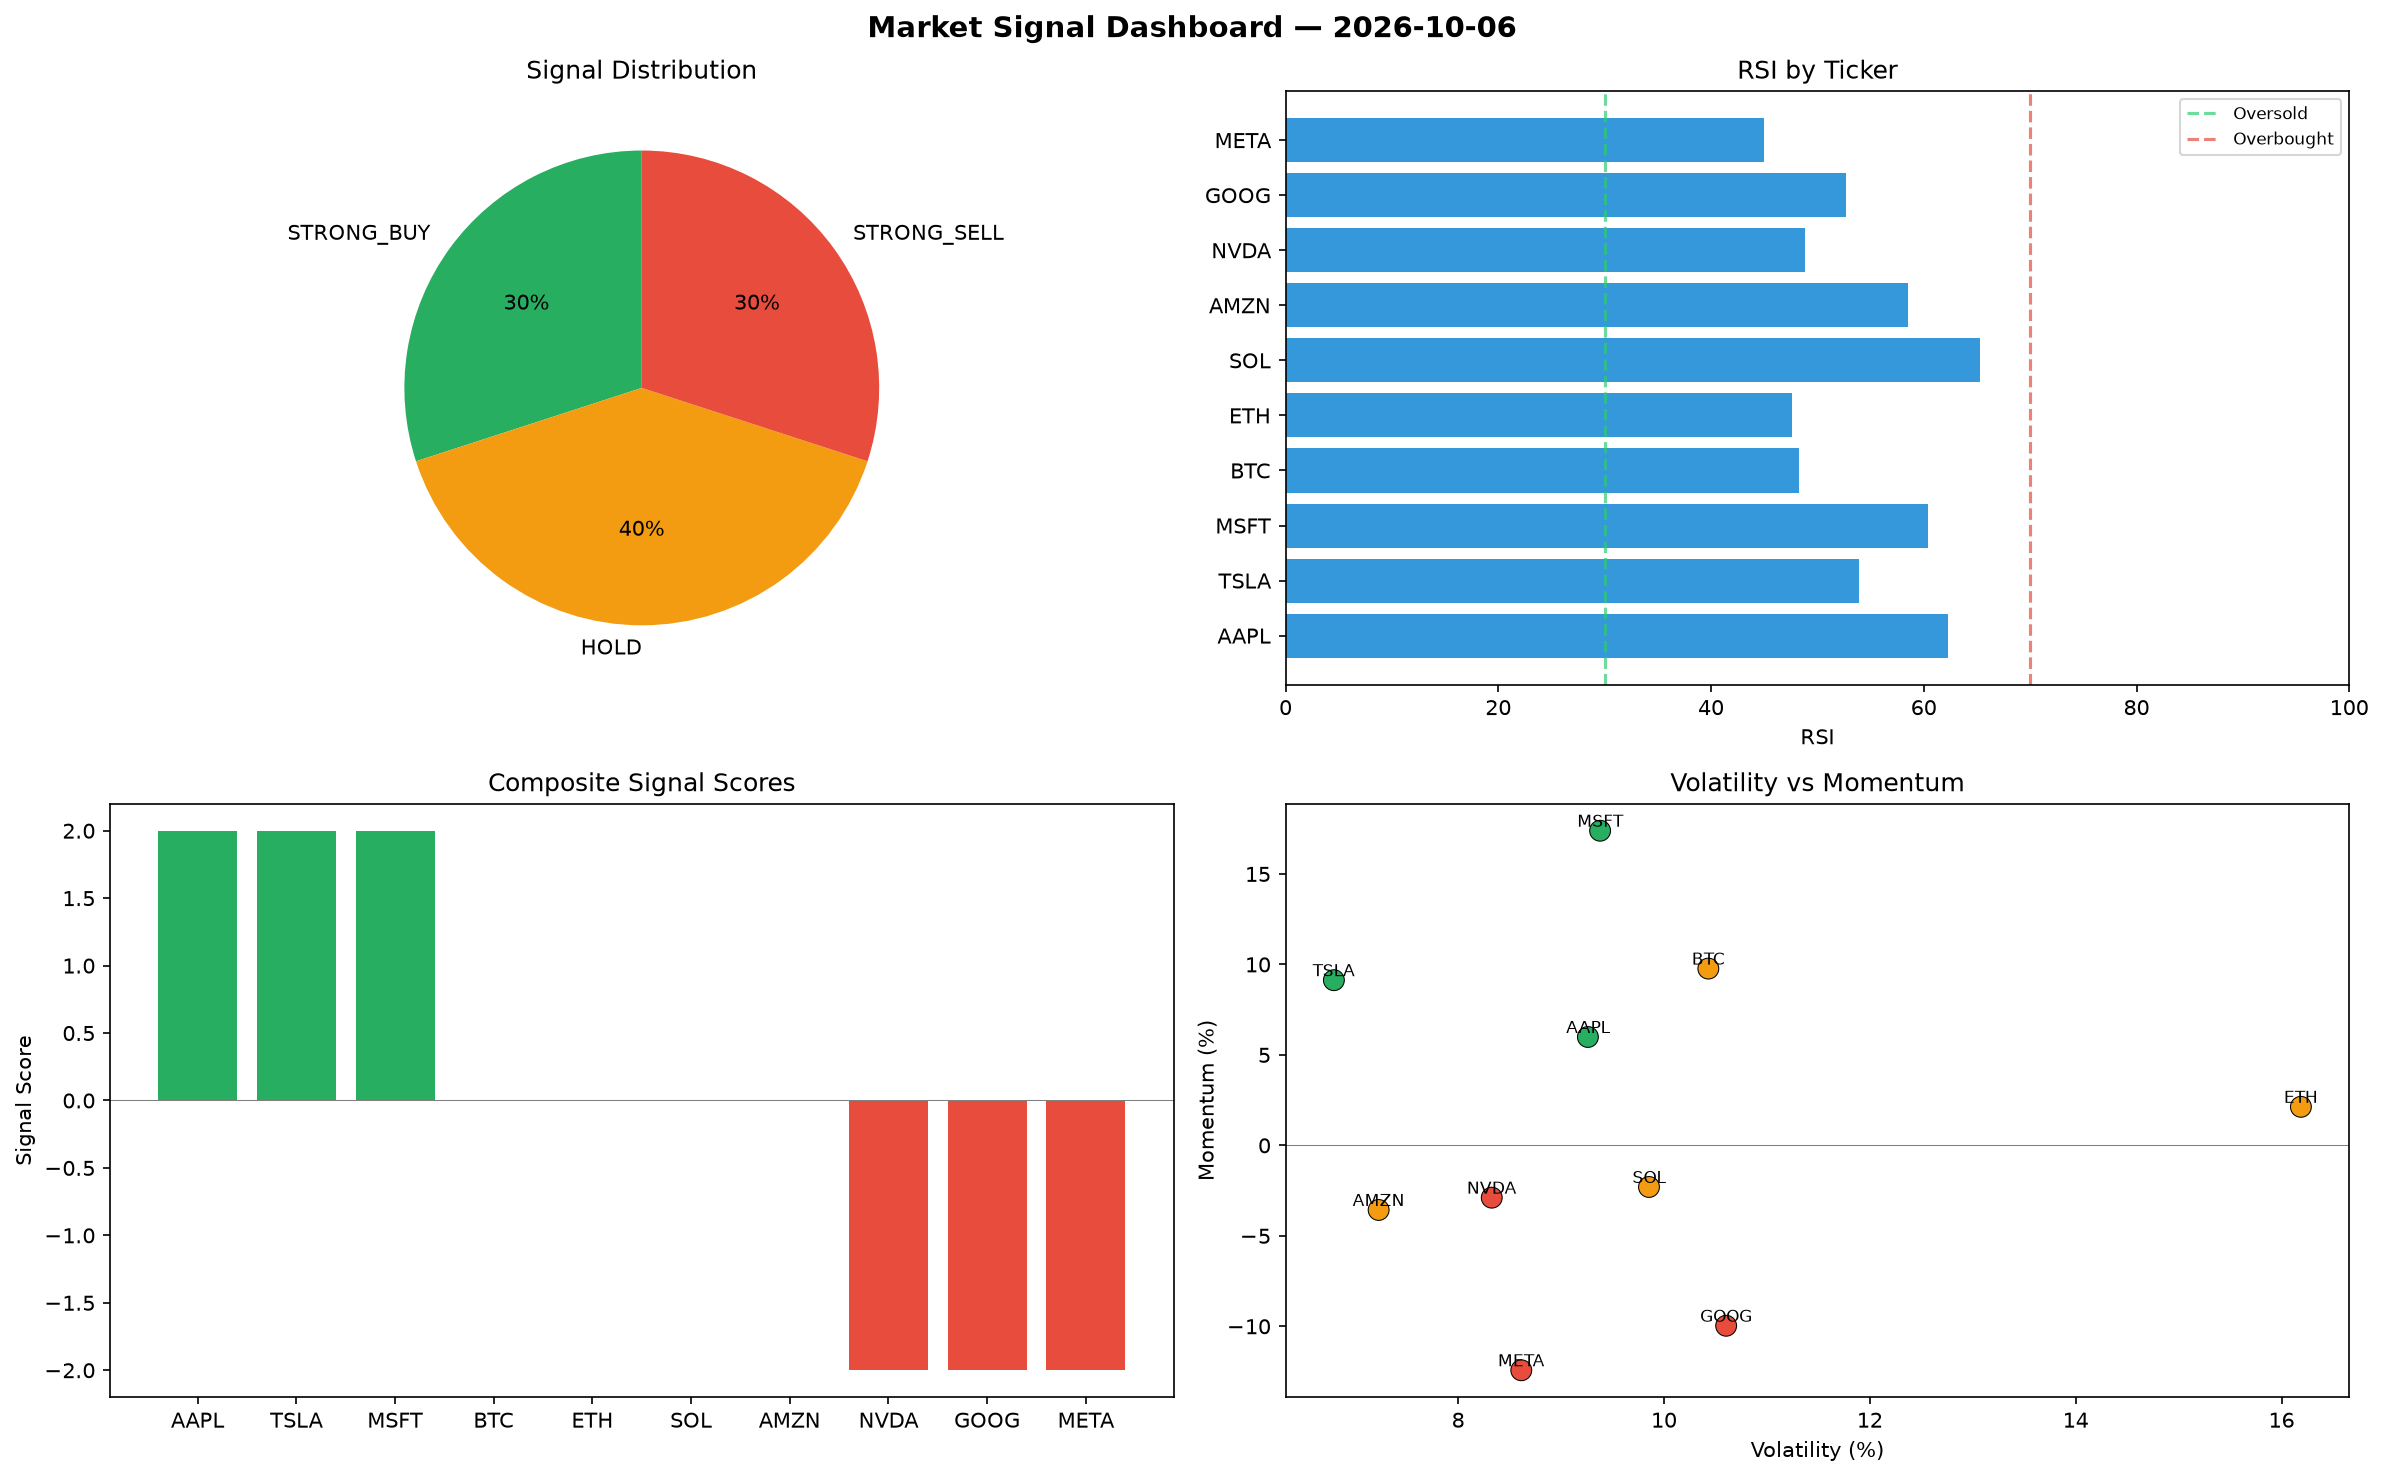
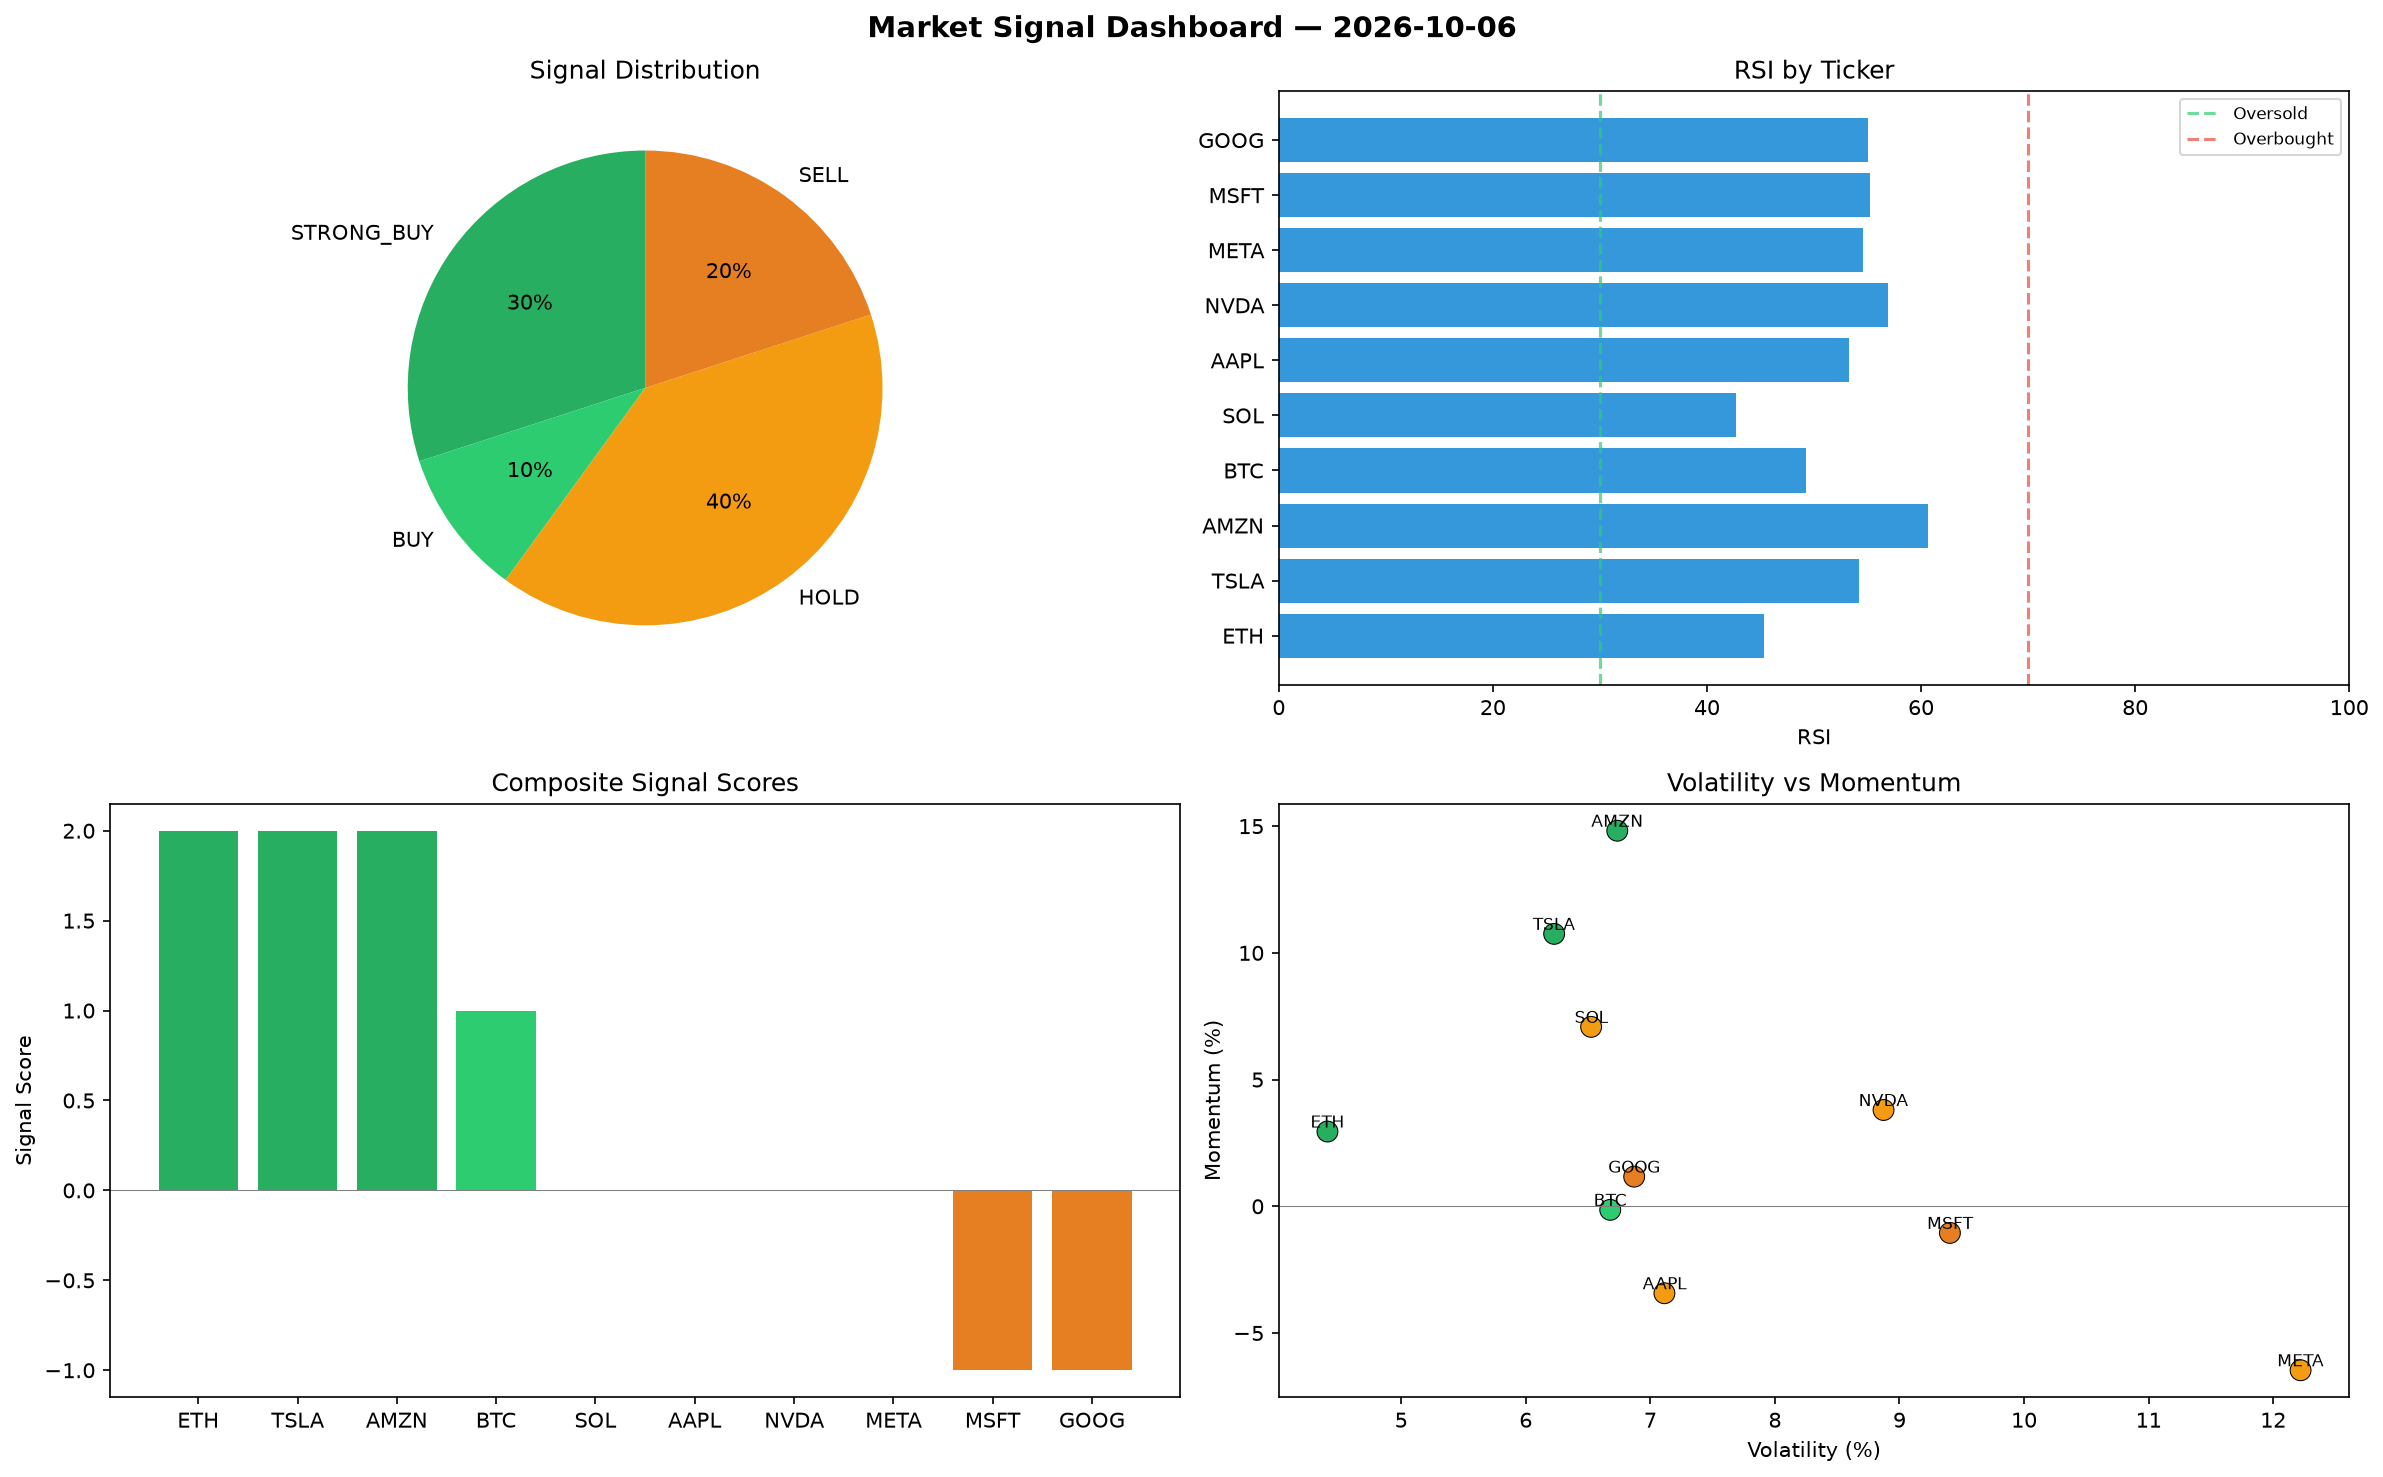
automated-bots: market signals 2026-10-06T09:12

diff --git a/logs/2026-10-06.md b/logs/2026-10-06.md
@@ -1,6 +1,6 @@
 # Market Signal Report — 2026-10-06
 
-**Run ID:** `896252d677` | **Buy:** 3 | **Sell:** 3 | **Hold:** 4
+**Run ID:** `e15ab254f6` | **Buy:** 4 | **Sell:** 2 | **Hold:** 4
 
 ![Dashboard](2026-10-06_dashboard.png)
 
@@ -8,28 +8,28 @@
 
 | Ticker | Price | Signal | Score | RSI | Momentum | Confidence |
 |--------|-------|--------|-------|-----|----------|------------|
-| AAPL | $3861.5 | **STRONG_BUY** | 2 | 62.31 | 0.0599 | 0.5 |
-| TSLA | $2724.97 | **STRONG_BUY** | 2 | 53.91 | 0.0913 | 0.5 |
-| MSFT | $931.9 | **STRONG_BUY** | 2 | 60.4 | 0.1739 | 0.5 |
-| BTC | $1300.36 | **HOLD** | 0 | 48.25 | 0.0977 | 0.0 |
-| ETH | $525.48 | **HOLD** | 0 | 47.58 | 0.0213 | 0.0 |
-| SOL | $2655.2 | **HOLD** | 0 | 65.29 | -0.023 | 0.0 |
-| AMZN | $3906.08 | **HOLD** | 0 | 58.51 | -0.0357 | 0.0 |
-| NVDA | $1633.96 | **STRONG_SELL** | -2 | 48.84 | -0.0289 | 0.5 |
-| GOOG | $2771.19 | **STRONG_SELL** | -2 | 52.69 | -0.0997 | 0.5 |
-| META | $1444.01 | **STRONG_SELL** | -2 | 44.97 | -0.1243 | 0.5 |
+| ETH | $3481.83 | **STRONG_BUY** | 2 | 45.29 | 0.0295 | 0.5 |
+| TSLA | $4675.18 | **STRONG_BUY** | 2 | 54.21 | 0.1075 | 0.5 |
+| AMZN | $1858.03 | **STRONG_BUY** | 2 | 60.63 | 0.1482 | 0.5 |
+| BTC | $1393.2 | **BUY** | 1 | 49.23 | -0.0014 | 0.25 |
+| SOL | $3945.51 | **HOLD** | 0 | 42.73 | 0.0708 | 0.0 |
+| AAPL | $2084.96 | **HOLD** | 0 | 53.31 | -0.0343 | 0.0 |
+| NVDA | $1982.73 | **HOLD** | 0 | 56.89 | 0.038 | 0.0 |
+| META | $1358.04 | **HOLD** | 0 | 54.62 | -0.0647 | 0.0 |
+| MSFT | $4892.64 | **SELL** | -1 | 55.24 | -0.0105 | 0.25 |
+| GOOG | $2000.94 | **SELL** | -1 | 55.07 | 0.0117 | 0.25 |
 
 ## Delta vs Yesterday
 
 | Ticker | Today | Yesterday | Price Change | Signal Changed |
 |--------|-------|-----------|-------------|----------------|
-| AAPL | STRONG_BUY | SELL | 📈 129.14% | ⚠ YES |
-| TSLA | STRONG_BUY | HOLD | 📉 -45.32% | ⚠ YES |
-| MSFT | STRONG_BUY | STRONG_BUY | 📈 72.45% | — |
-| BTC | HOLD | HOLD | 📉 -71.02% | — |
-| ETH | HOLD | STRONG_BUY | 📉 -80.32% | ⚠ YES |
-| SOL | HOLD | STRONG_BUY | 📈 1478.32% | ⚠ YES |
-| AMZN | HOLD | HOLD | 📈 2.0% | — |
-| NVDA | STRONG_SELL | STRONG_SELL | 📉 -63.06% | — |
-| GOOG | STRONG_SELL | STRONG_SELL | 📈 32.83% | — |
-| META | STRONG_SELL | STRONG_SELL | 📉 -55.9% | — |
+| ETH | STRONG_BUY | STRONG_BUY | 📈 30.41% | — |
+| TSLA | STRONG_BUY | HOLD | 📉 -6.18% | ⚠ YES |
+| AMZN | STRONG_BUY | HOLD | 📉 -51.48% | ⚠ YES |
+| BTC | BUY | HOLD | 📉 -68.95% | ⚠ YES |
+| SOL | HOLD | STRONG_BUY | 📈 2245.31% | ⚠ YES |
+| AAPL | HOLD | SELL | 📈 23.72% | ⚠ YES |
+| NVDA | HOLD | STRONG_SELL | 📉 -55.18% | ⚠ YES |
+| META | HOLD | STRONG_SELL | 📉 -58.52% | ⚠ YES |
+| MSFT | SELL | STRONG_BUY | 📈 805.37% | ⚠ YES |
+| GOOG | SELL | STRONG_SELL | 📉 -4.09% | ⚠ YES |
